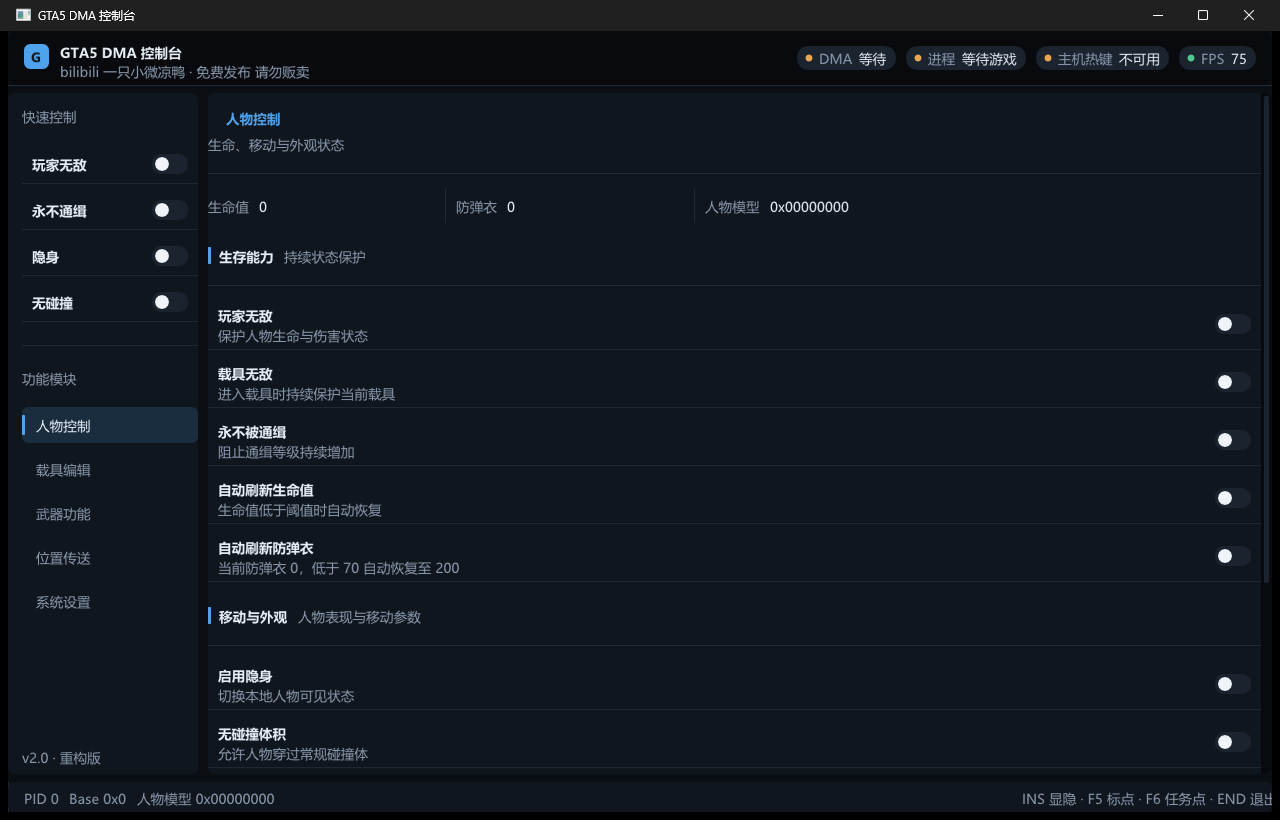
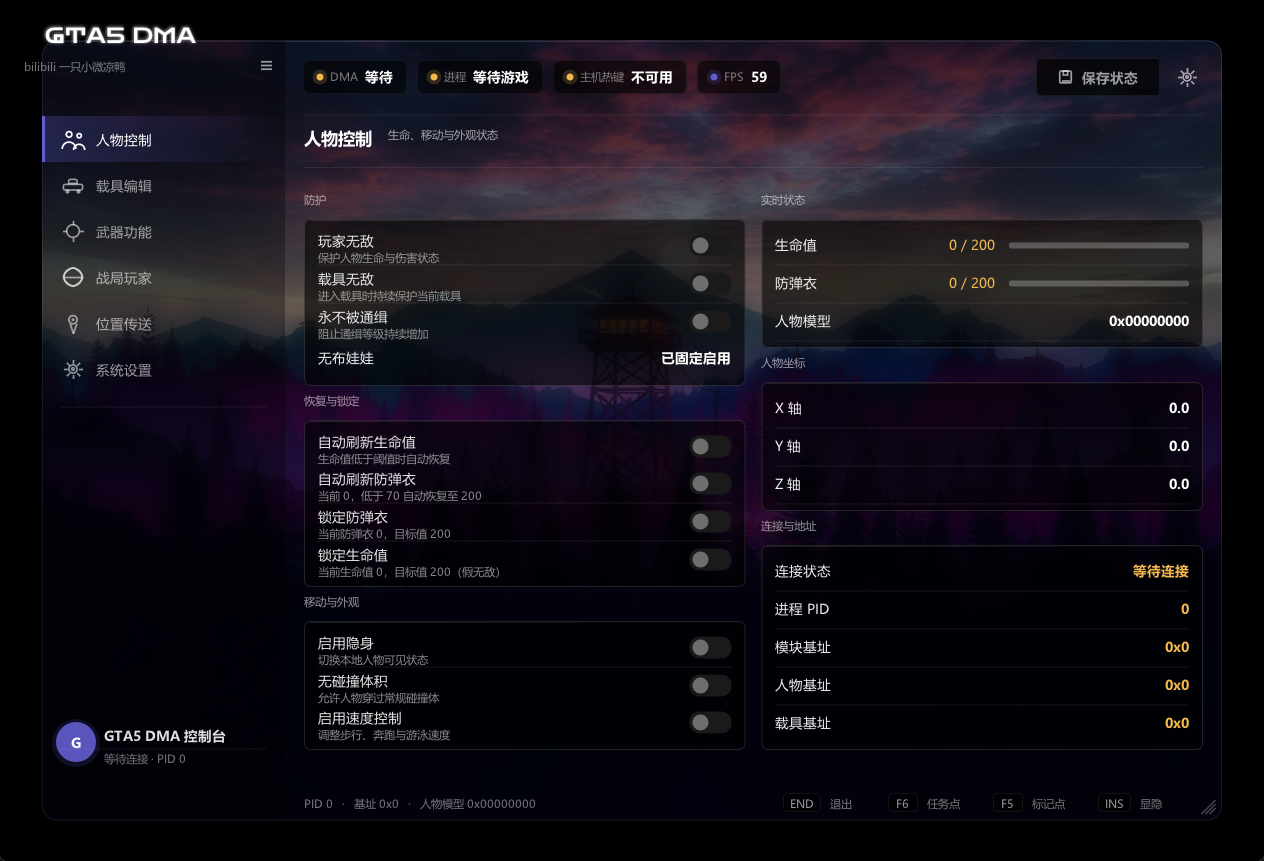
README: 同步 v2.5 说明（界面 / 悬浮面板 / 传送到它 / 预设点位）
- 新增「v2.5 更新要点」段落：玻璃拟态界面、悬浮面板几何记忆与面板外纯黑、传送到它语义翻转、页内排版与修复项

- 界面预览改为新 UI 截图：悬浮玻璃面板全窗 + 战局载具表格（操作列「传送到它」）；移除旧 UI 截图

- 位置传送：预设点位按实测改为 55 个 / 8 组（62 条原始条目按坐标 8 米合并）

- 界面与运行：4 套配色主题 -> 明暗模式 + 强调色 + 侧边栏收起 + window.ini 几何记忆

- 项目结构：补 assets/ external/ tools/ 与 Backdrop/EmbeddedAssets/GlyphRanges/AppFonts；已知限制改写传送语义与面板外纯黑

diff --git a/README.md b/README.md
@@ -10,9 +10,9 @@
 [![License: Custom](https://img.shields.io/badge/license-Custom%20Non--Commercial-orange)](LICENSE)
 [![Release](https://img.shields.io/badge/release-v2.5-2ea44f)](https://github.com/fmc999/GTA5-DMA-CHEAT/releases/latest)
 
-基于 C++23 / Dear ImGui / DirectX 11 / MemProcFS 构建的 GTA5 DMA 外部控制台，支持 GTA5 原版与 GTA5 Enhanced 双进程自动识别。
+基于 C++23 / Dear ImGui / DirectX 11 / MemProcFS 构建的 GTA5 DMA 外部控制台，暗色玻璃拟态悬浮面板界面，支持 GTA5 原版与 GTA5 Enhanced 双进程自动识别。
 
-A GTA5 external DMA control console built with C++23 / Dear ImGui / DirectX 11 / MemProcFS, with automatic detection of both legacy GTA5 and GTA5 Enhanced.
+A GTA5 external DMA control console built with C++23 / Dear ImGui / DirectX 11 / MemProcFS — a dark glass-morphism floating panel UI, with automatic detection of both legacy GTA5 and GTA5 Enhanced.
 
 **免费发布 · 请勿贩卖 · 仅供技术研究与 DMA 读写学习**
 **Free release · Do not resell · For technical research and DMA read/write learning only**
@@ -21,15 +21,29 @@ A GTA5 external DMA control console built with C++23 / Dear ImGui / DirectX 11 /
 
 ---
 
+## v2.5 更新要点 | What's new in v2.5
+
+- **界面改版**：整体换成暗色玻璃拟态（圆角外壳 + 半透明内容盒 + 1px 分隔线 + 强调色），壁纸直接编译进 exe，无需外部图片文件
+- **悬浮面板**：面板本身就是悬浮窗 —— 默认 1180×780、顶部空白区拖动、右下角手柄缩放（最小 1180×780），几何写入 `window.ini` 记忆；**面板以外区域保持纯黑**，叠在融合器输出的另一台电脑画面上时互不遮挡
+- **战局载具**：操作由「传送到身边」（载具 → 我）翻转为 **「传送到它」（我 → 载具）** —— 直接把玩家送到该载具旁，错开 2 米防卡模
+- **页内排版**：人物控制页左功能 / 右信息；位置传送页三列瀑布流，重复点位按坐标 8 米自动合并（62 → 55 个按钮 / 8 组）
+- **修复**：内容溢出时的滚动条不可见与错位、多张功能卡的芯片按钮动画 ID 冲突
+
+*The UI is rebuilt as a dark glass-morphism floating panel (draggable, resizable, geometry persisted to `window.ini`, pure black outside the panel for compositor / dual-PC setups) with the wallpaper embedded in the exe. The vehicle-list action is flipped to **teleport-to-vehicle** (player → vehicle, 2 m offset). Pages are re-laid-out (player page: features left / telemetry right; teleport page: three-column flow with coordinate-based dedupe, 62 → 55 buttons). Scroll-overflow and chip-animation-ID issues are fixed. Full history: [Releases](https://github.com/fmc999/GTA5-DMA-CHEAT/releases).*
+
 ## 界面预览 | Screenshots
 
 ![Console UI](docs/screenshot-console.png)
 
-![Session Players](docs/screenshot-session-page.png)
+悬浮玻璃面板：页眉品牌与状态胶囊（DMA / 进程 / 主机热键 / FPS）、左侧导航（人物控制 / 载具编辑 / 武器功能 / 战局玩家 / 位置传送 / 系统设置）、右侧工作区分组卡片、底部状态栏实时显示 PID / 基址 / 模型哈希与热键提示。面板可拖动与缩放，几何与外观写入 `window.ini`；面板以外区域保持纯黑。
 
-单窗口控制台布局：页眉状态胶囊（DMA / 进程 / 主机热键 / FPS）、可折叠侧边栏（快速控制 + 模块导航）、工作区分区内容、底部状态栏实时显示 PID / 基址 / 模型哈希。内置 4 套配色主题（午夜蓝 / 石墨灰 / 海洋青 / 绯红），位置大小与主题自动记忆。
+Floating glass panel: header brand and status pills (DMA / process / host hotkeys / FPS), left navigation, grouped workspace cards, and a status bar with live PID / base address / model hash plus hotkey hints. The panel is draggable and resizable, with geometry and appearance persisted to `window.ini`, and everything outside the panel stays pure black.
 
-Single-window console layout: header status pills (DMA / process / hotkeys / FPS), collapsible sidebar (quick toggles + module navigation), sectioned workspace, and a status bar showing PID / base address / model hash live. Four built-in color themes (Midnight / Graphite / Ocean / Crimson), with window geometry and theme auto-persisted.
+![Vehicle list](docs/screenshot-vehicle-list.png)
+
+战局载具表格：车名（24 款常用车型映射）/ 血量 / 距离，右侧「传送到它」把玩家直接送到该载具旁（错开 2 米防卡模）。
+
+Session-vehicle table: model name (24 common models mapped) / health / distance, with a one-click **teleport-to-vehicle** button that sends the player next to that vehicle (offset by 2 m to avoid clipping).
 
 ## 功能 | Features
 
@@ -71,16 +85,19 @@ Single-window console layout: header status pills (DMA / process / hotkeys / FPS
 - Weapon stats readout (damage / fire rate / range / recoil / accuracy), infinite ammo, no-reload, impact and bullet-speed tuning.
 
 ### 位置传送 | Teleport
-- 自定义坐标与 60+ 预设位置（任务点位齐全）
+- 自定义坐标 + 55 个预设点位（8 组：通用 / 赌场金库 / 赌场前置 / 赌场任务 / 佩里克岛前置 / 佩里克岛别墅外 / 佩里克岛战利品 / 佩里克岛撤离）
+- 重复点位按坐标 8 米就近自动合并为一个按钮，原名并入按钮标签（62 → 55）
 - `F5` 传送到地图标记点 · `F6` 传送到任务点（Enhanced）
 - 人物与载具状态自动处理（上车传送、高度修正）
-- Custom coordinates and 60+ preset locations (full mission coverage), `F5` waypoint / `F6` objective teleport (Enhanced), with vehicle-in/out and height correction handled automatically.
+- Custom coordinates plus 55 preset locations in 8 groups, with duplicates within 8 m merged into one button by coordinate (62 → 55); `F5` waypoint / `F6` objective teleport (Enhanced), with vehicle-in/out and height correction handled automatically.
 
 ### 界面与运行 | UI & Runtime
+- 悬浮玻璃面板：拖动 / 右下角缩放（最小 1180×780）/ `window.ini` 几何记忆；面板外纯黑
+- 壁纸编译进 exe（原图 + 预模糊副本），中文字形完整内嵌
+- 设置页可切换明暗模式与强调色、收起侧边栏；操作有 Toast 反馈
 - DMA 读写线程与 UI 线程分离，Scatter 批量读写降低 PCIe 带宽占用
 - 主机及目标机双端热键检测
-- Toast 操作反馈、窗口状态记忆、4 套主题实时切换
-- Separate DMA / UI threads with scatter batch reads to reduce PCIe traffic, dual-end hotkeys (host + target), toast feedback, window state persistence, live theme switching.
+- A draggable / resizable floating glass panel (min 1180×780, geometry persisted to `window.ini`, pure black outside it); wallpaper (and a pre-blurred copy) plus full CJK glyph ranges embedded in the exe; light/dark mode, accent color and sidebar-collapse switches in Settings with toast feedback; separate DMA / UI threads with scatter batch reads to cut PCIe traffic; dual-end hotkeys (host + target).
 
 ## 环境要求 | Requirements
 
@@ -135,9 +152,10 @@ Pushing to `main` triggers the [MSBuild workflow](.github/workflows/msbuild.yml)
 2. 在目标主机启动 GTA5 或 GTA5 Enhanced
 3. 在控制主机运行 `GTA5_DMA.exe`
 4. 等待页眉状态胶囊显示 DMA 与游戏进程已连接
-5. 通过左侧导航进入功能页面
+5. 通过左侧导航进入功能页面；拖动面板顶部空白区可移动，拖右下角手柄可缩放（几何记在 `%LOCALAPPDATA%\GTA5_DMA\window.ini`）
+6. 设置页 → 外观：切换明暗模式与强调色；界面：收起侧边栏
 
-*Ensure the DMA device and MemProcFS driver environment are ready (`vmm.dll` / `leechcore.dll` next to the exe). Start GTA5 / GTA5 Enhanced on the target machine, run `GTA5_DMA.exe` on the control machine, wait for the header pills to show DMA and game process connected, then navigate via the sidebar.*
+*Ensure the DMA device and MemProcFS driver environment is ready (`vmm.dll` / `leechcore.dll` next to the exe). Start GTA5 / GTA5 Enhanced on the target machine, run `GTA5_DMA.exe` on the control machine, wait for the header pills to show DMA and game process connected, then navigate via the sidebar. Drag the panel's empty header area to move it and the bottom-right grip to resize (geometry persisted in `%LOCALAPPDATA%\GTA5_DMA\window.ini`); Settings → Appearance switches light/dark mode and accent color.*
 
 ### 快捷键 | Hotkeys
 
@@ -166,15 +184,22 @@ GTA5_DMA/
 │   │   ├── GodMode / NoWanted / RefreshHealth / HealthManager / ArmorManager
 │   │   ├── Invisibility / NoCollision / PlayerSpeed / Ragdoll
 │   │   ├── PlayerList          # 战局玩家（加密 Ped 池 + 统计 + 操作）
-│   │   ├── VehicleList         # 战局载具（载具池扫描 + 传送）
+│   │   ├── VehicleList         # 战局载具（载具池扫描 + 传送到它）
 │   │   └── Teleport / VehicleEditor / WeaponInspector / Locations
 │   ├── UI/                     # 界面层
 │   │   ├── MyImGui.*           # DX11 + Win32 平台层（窗口 / 设备 / 主循环）
-│   │   ├── ConsoleShell.*      # 单窗口布局：页眉 / 可折叠侧边栏 / 工作区 / 状态栏
-│   │   ├── ConsoleTheme.*      # 主题系统 + 共享控件（ToggleRow / NavItem / StatPill）
+│   │   ├── ConsoleShell.*      # 悬浮面板布局：页眉 / 侧边导航 / 工作区 / 状态栏
+│   │   ├── ConsoleTheme.*      # 玻璃主题、明暗与强调色 + 共享控件
+│   │   ├── Backdrop.*          # 壁纸与预模糊副本绘制（面板内外分区）
+│   │   ├── EmbeddedAssets.h    # 编译进 exe 的壁纸与字体数据
+│   │   ├── AppFonts.h          # 字体加载（正文 / 粗体 / 品牌字）
+│   │   ├── GlyphRanges.h       # 中文完整字形范围
 │   │   ├── UiToast.*           # Toast 操作反馈通知
-│   │   ├── WindowState.*       # 窗口几何 / 主题 / 开关状态持久化
+│   │   ├── WindowState.*       # 面板几何 / 外观 / 开关状态持久化
 │   │   └── MenuManager.*       # 页面状态与各页面内容
+│   ├── assets/                 # 壁纸原图、预模糊副本、品牌字体
+│   ├── external/               # stb_image.h（壁纸解码）
+│   ├── tools/                  # gen_embedded_assets.py / gen_glyph_ranges.py
 │   └── Attic/                  # 已停用功能（源码保留，便于恢复）
 │       ├── TimeControl / HeistDividend / PlayerChaser / Dev
 │       └── LegacyPages.cpp     # 停用功能的页面 UI 存档
@@ -198,7 +223,8 @@ main.cpp
 - **线程模型**：UI 与 DMA 读写完全分离，通过原子变量通信，无锁
 - **内存访问**：统一走 `MemoryBackend`（VMMDLL 封装），关键路径使用 Scatter 批量读写
 - **偏移管理**：启动时 `OffsetResolver` 特征码动态解析（主/备双链），失败回落 `Offsets.h` 静态双版本表
-- **Threading**: UI and DMA threads are fully decoupled and communicate via atomics (lock-free). **Memory**: all access goes through `MemoryBackend` (VMMDLL wrapper) with scatter batches on hot paths. **Offsets**: resolved at startup by `OffsetResolver` (primary/backup signature chains) with static-table fallback.
+- **界面**：`ConsoleShell` 用 ImDrawList 直绘玻璃面板（外壳 / 内容盒 / 分隔线），`Backdrop` 负责壁纸分区绘制，页面内容由 `MenuManager` 提供
+- **Threading**: UI and DMA threads are fully decoupled and communicate via atomics (lock-free). **Memory**: all access goes through `MemoryBackend` (VMMDLL wrapper) with scatter batches on hot paths. **Offsets**: resolved at startup by `OffsetResolver` (primary/backup signature chains) with static-table fallback. **UI**: `ConsoleShell` paints the glass panel directly with ImDrawList, `Backdrop` handles wallpaper partitioning, and page bodies come from `MenuManager`.
 
 ## 测试 | Tests
 
@@ -224,9 +250,10 @@ tests\x64\Debug\DmaInfrastructureTests.exe
 ## 已知限制 | Known Limitations
 
 - 时间控制、任务分红、追战局功能已停用（源码保留于 `Attic/`）
-- 战局载具传送仅对静止载具有效（移动中载具导航位置会被物理引擎覆盖）
+- 战局载具的「传送到它」把玩家送到目标载具旁（错开 2 米）；目标载具若正在移动，落点按读取瞬间的坐标计算，可能落在车后
+- 面板以外区域刻意保持纯黑（融合器叠加用），不是渲染失败
 - 无 BattlEye 主动绕过；Enhanced 在线模式行为不受本工具保证
-- Time control / heist dividend / session chaser are retired (sources kept in `Attic/`). Session-vehicle teleport only works on stationary vehicles (physics overrides navigation on moving ones). No active BattlEye bypass; Enhanced online behavior is not guaranteed.
+- Time control / heist dividend / session chaser are retired (sources kept in `Attic/`). Teleport-to-vehicle sends the player next to the target vehicle with a 2 m offset; if that vehicle is moving, the landing spot uses the coordinates sampled at read time. The pure-black area outside the panel is intentional (for compositor overlays). No active BattlEye bypass; Enhanced online behavior is not guaranteed.
 
 ## 免责声明 | Disclaimer
 
